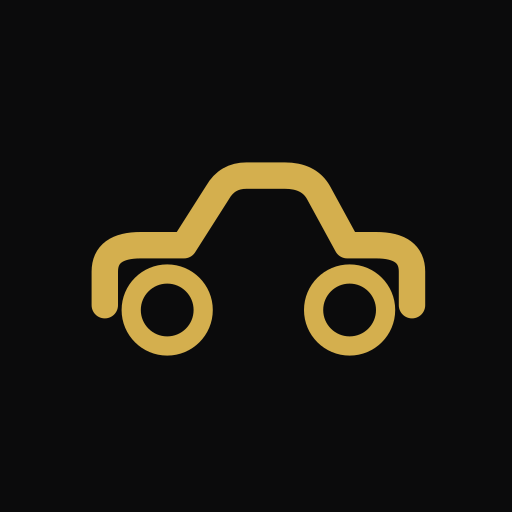
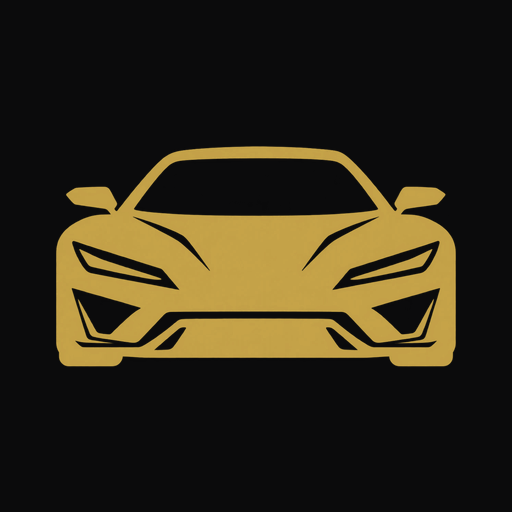
アイコン刷新: 正面スポーツカー（アプリ/売りたい）＋車+虫眼鏡（買いたい）
- アプリアイコン(icon-192/512・apple-touch・favicon)を正面スポーツカー(金×黒)に
- トップ「車を売りたい」=正面スポーツカー(金)、「車を買いたい」=車+虫眼鏡(スカイ)
- 元画像は白背景・抜き線を透過化し、ブランド色に再着色してダークUIに最適化
- マイページは人アイコン(エメラルド)のまま

※アイコン原画はライセンス未確認。公開前にライセンス購入/差し替え推奨。

Changed region(s): [[0.0938, 0.2812, 0.9062, 0.7188]]

diff --git a/arios/app/page.tsx b/arios/app/page.tsx
@@ -87,11 +87,8 @@ export default async function Home() {
     {
       href: "/sell",
       icon: (
-        <svg viewBox="0 0 24 24" fill="none" className="h-9 w-9" stroke="currentColor" strokeWidth={1.7} strokeLinecap="round" strokeLinejoin="round" aria-hidden>
-          <path d="M5 17h-2v-6l2 -5h9l4 5h1a2 2 0 0 1 2 2v4h-2m-4 0h-6" />
-          <circle cx="7" cy="17" r="2" />
-          <circle cx="17" cy="17" r="2" />
-        </svg>
+        // eslint-disable-next-line @next/next/no-img-element
+        <img src="/icon-sell.png" alt="" className="h-12 w-12 object-contain" />
       ),
       color: "text-accent",
       title: t("top_sell_title"),
@@ -101,10 +98,8 @@ export default async function Home() {
     {
       href: "/buy",
       icon: (
-        <svg viewBox="0 0 48 48" fill="none" className="h-9 w-9" stroke="currentColor" strokeWidth={2.5} strokeLinecap="round" strokeLinejoin="round" aria-hidden>
-          <circle cx="21" cy="21" r="11" />
-          <path d="M29 29 L41 41" />
-        </svg>
+        // eslint-disable-next-line @next/next/no-img-element
+        <img src="/icon-buy.png" alt="" className="h-12 w-12 object-contain" />
       ),
       color: "text-sky-400",
       title: t("top_buy_title"),
